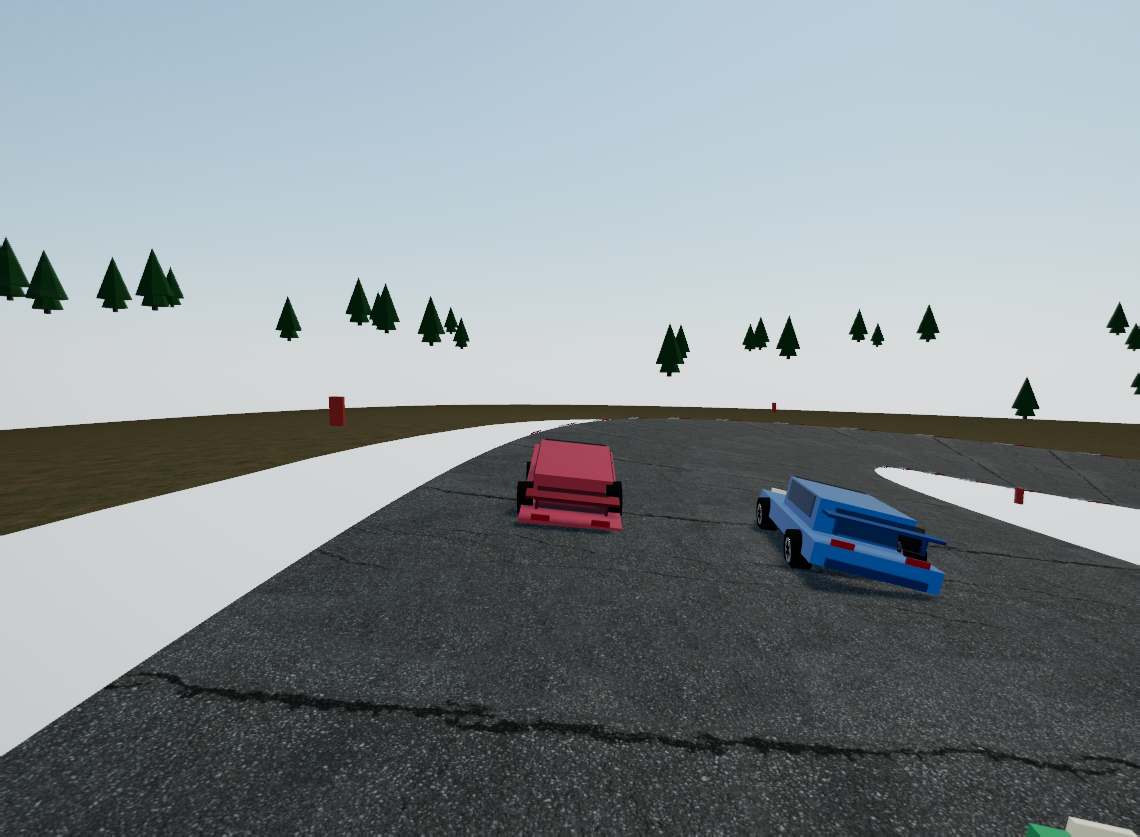
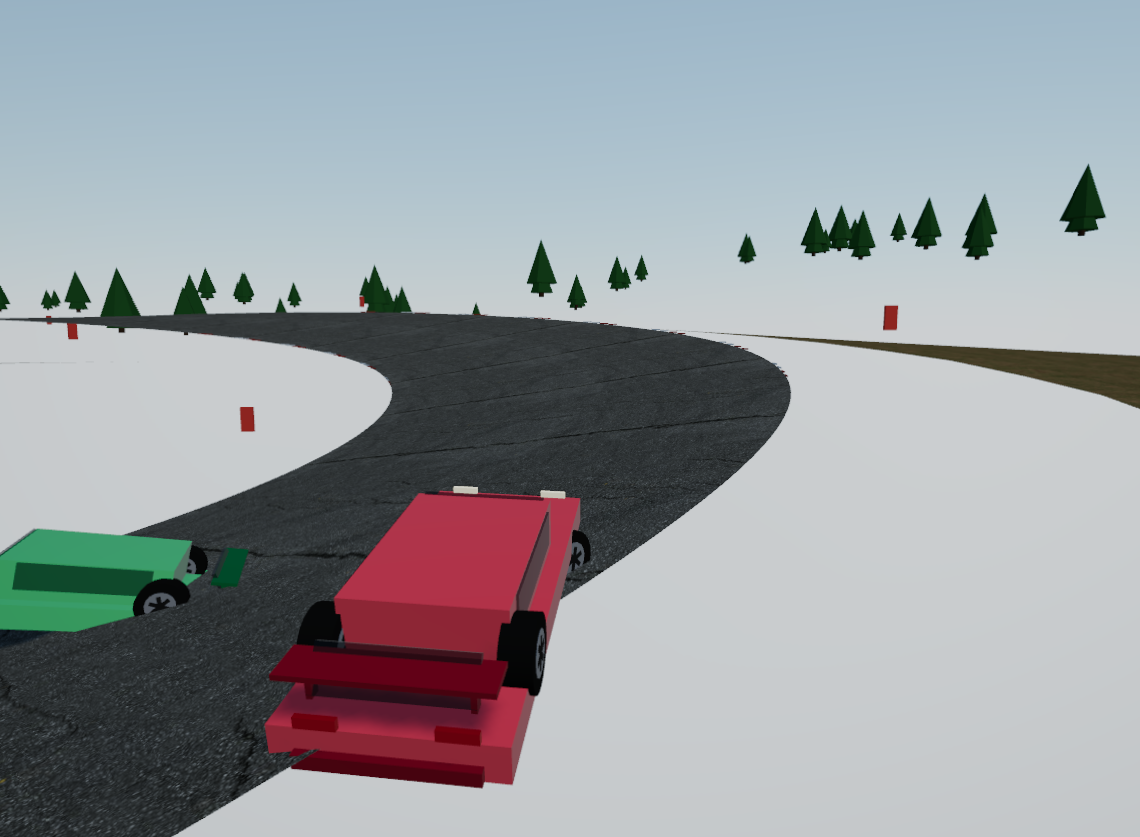
fix(3d): repond a la direction a droite
La touche fleche droite etait muette : KEYMAP contenait KeyRight au lieu
de ArrowRight, qui n'est pas un code KeyboardEvent valide. La touche n'etait
donc jamais enregistree, sans lever d'erreur — le jeu tournait, seule la
direction manquait.

La correspondance clavier est desormais dans src/core/input.js, un module
pur testable sous Node, et un test verifie que chaque code mappe existe
dans CODES_CLAVIER. C'est le genre de bug que l'on ne voit qu'en jouant :
le code est correct, l'image est correcte, une touche ne repond plus.

Verifie dans le navigateur : cap +0,099 rad et lacet +0,542 a droite,
cap -0,100 rad et lacet -0,544 a gauche.

diff --git a/course-voitures-3d/tests/input.test.js b/course-voitures-3d/tests/input.test.js
@@ -1,0 +1,104 @@
+/**
+ * Tests de la correspondance clavier.
+ *
+ * Le bug qui a motivé ce fichier : `KEYMAP` contenait `KeyRight` au lieu de
+ * `ArrowRight`. `KeyRight` n'est pas un code `KeyboardEvent` valide, donc la
+ * flèche droite n'était jamais enregistrée — le jeu tournait, sans erreur,
+ * mais la direction à droite était muette.
+ *
+ * D'où ces tests : ils vérifient les codes, pas seulement le comportement.
+ */
+
+import test from 'node:test';
+import assert from 'node:assert/strict';
+
+import {
+  KEYMAP,
+  CODES_CLAVIER,
+  readInput,
+  toCarInput,
+} from '../src/core/input.js';
+
+test('toutes les touches mappées sont des codes KeyboardEvent valides', () => {
+  for (const code of Object.keys(KEYMAP)) {
+    assert.ok(
+      CODES_CLAVIER.has(code),
+      `« ${code} » n'est pas un code KeyboardEvent valide — ` +
+        'la touche serait muette sans lever d’erreur'
+    );
+  }
+});
+
+test('toutes les commandes attendues sont mappées', () => {
+  const commandes = new Set(Object.values(KEYMAP));
+  for (const attendue of ['throttle', 'brake', 'left', 'right', 'hand']) {
+    assert.ok(commandes.has(attendue), `la commande « ${attendue} » n’est mappée sur aucune touche`);
+  }
+});
+
+test('chaque commande a au moins une flèche ou touche directionnelle', () => {
+  // Les flèches et les touches ZQSD/WASD doivent toutes être présentes.
+  for (const code of [
+    'ArrowUp',
+    'ArrowDown',
+    'ArrowLeft',
+    'ArrowRight',
+    'KeyW',
+    'KeyA',
+    'KeyS',
+    'KeyD',
+  ]) {
+    assert.ok(KEYMAP[code], `la touche ${code} doit être mappée`);
+  }
+});
+
+test('la flèche droite donne une direction à droite', () => {
+  const cmd = readInput(new Set(['ArrowRight']));
+  assert.equal(cmd.right, 1);
+  assert.equal(cmd.left, 0);
+  assert.equal(toCarInput(cmd).steer, 1, 'steer > 0 doit signifier « à droite »');
+});
+
+test('la flèche gauche donne une direction à gauche', () => {
+  const cmd = readInput(new Set(['ArrowLeft']));
+  assert.equal(cmd.left, 1);
+  assert.equal(cmd.right, 0);
+  assert.equal(toCarInput(cmd).steer, -1);
+});
+
+test('les équivalents ZQSD/WASD répondent aussi', () => {
+  const cas = [
+    [['KeyD'], 1],
+    [['KeyA'], -1],
+    [['KeyW'], 0],
+    [['KeyS'], 0],
+  ];
+  for (const [touches, attendu] of cas) {
+    assert.equal(toCarInput(readInput(new Set(touches))).steer, attendu);
+  }
+});
+
+test('aucune direction sans touche enfoncée', () => {
+  const cmd = readInput(new Set());
+  assert.equal(toCarInput(cmd).steer, 0);
+  assert.equal(cmd.throttle, 0);
+  assert.equal(cmd.brake, 0);
+  assert.equal(cmd.hand, false);
+});
+
+test('les deux directions enfoncées s’annulent', () => {
+  const cmd = toCarInput(readInput(new Set(['ArrowLeft', 'ArrowRight'])));
+  assert.equal(cmd.steer, 0);
+});
+
+test('accélérateur, frein et frein à main sont indépendants', () => {
+  const cmd = toCarInput(readInput(new Set(['ArrowUp', 'ArrowDown', 'Space'])));
+  assert.equal(cmd.throttle, 1);
+  assert.equal(cmd.brake, 1);
+  assert.equal(cmd.hand, true);
+});
+
+test('l’ensemble vide et null sont acceptés', () => {
+  assert.equal(toCarInput(readInput(null)).steer, 0);
+  assert.equal(toCarInput(readInput(new Set())).steer, 0);
+});

diff --git a/course-voitures-3d/src/core/input.js b/course-voitures-3d/src/core/input.js
@@ -1,0 +1,114 @@
+/**
+ * Correspondance clavier → commandes de conduite.
+ *
+ * Module **pur** : il ne touche ni au DOM ni à Three.js, ce qui permet de le
+ * tester sous Node. C'est important, car une erreur ici est **invisible** :
+ * le jeu tourne, mais une touche ne répond plus.
+ *
+ * Les codes sont ceux de `KeyboardEvent.code` : ils désignent une **position
+ * physique** sur le clavier, pas un caractère. La flèche droite est donc
+ * `ArrowRight` — et non `KeyRight`, qui n'existe pas.
+ */
+
+/** Touches reconnues, associées à une commande. */
+export const KEYMAP = {
+  ArrowUp: 'throttle',
+  KeyW: 'throttle',
+  ArrowDown: 'brake',
+  KeyS: 'brake',
+  ArrowLeft: 'left',
+  KeyA: 'left',
+  ArrowRight: 'right',
+  KeyD: 'right',
+  Space: 'hand',
+};
+
+/**
+ * Codes valides de `KeyboardEvent.code`.
+ * Sert à valider `KEYMAP` : une faute de frappe dans un code rend la touche
+ * muette sans aucune erreur.
+ */
+export const CODES_CLAVIER = new Set([
+  'ArrowUp',
+  'ArrowDown',
+  'ArrowLeft',
+  'ArrowRight',
+  'Space',
+  'Enter',
+  'Escape',
+  'Backspace',
+  'Tab',
+  'ShiftLeft',
+  'ShiftRight',
+  'ControlLeft',
+  'ControlRight',
+  'AltLeft',
+  'AltRight',
+  'KeyA',
+  'KeyB',
+  'KeyC',
+  'KeyD',
+  'KeyE',
+  'KeyF',
+  'KeyG',
+  'KeyH',
+  'KeyI',
+  'KeyJ',
+  'KeyK',
+  'KeyL',
+  'KeyM',
+  'KeyN',
+  'KeyO',
+  'KeyP',
+  'KeyQ',
+  'KeyR',
+  'KeyS',
+  'KeyT',
+  'KeyU',
+  'KeyV',
+  'KeyW',
+  'KeyX',
+  'KeyY',
+  'KeyZ',
+  'Digit0',
+  'Digit1',
+  'Digit2',
+  'Digit3',
+  'Digit4',
+  'Digit5',
+  'Digit6',
+  'Digit7',
+  'Digit8',
+  'Digit9',
+]);
+
+/**
+ * Lit les commandes à partir de l'ensemble des touches enfoncées.
+ *
+ * @param {Iterable<string>} touches  codes `KeyboardEvent.code` enfoncés
+ * @returns {{throttle:number, brake:number, steer:number, hand:boolean}}
+ *   `steer > 0` = vers la droite (convention du projet).
+ */
+export function readInput(touches) {
+  const a = (code) => (touches ? touches.has(code) : false);
+  return {
+    throttle: a('ArrowUp') || a('KeyW') ? 1 : 0,
+    brake: a('ArrowDown') || a('KeyS') ? 1 : 0,
+    left: a('ArrowLeft') || a('KeyA') ? 1 : 0,
+    right: a('ArrowRight') || a('KeyD') ? 1 : 0,
+    hand: a('Space'),
+  };
+}
+
+/**
+ * Convertit les commandes en entrée physique du véhicule.
+ * Séparé de `readInput` pour rester testable sans le reste du jeu.
+ */
+export function toCarInput(cmd) {
+  return {
+    throttle: cmd.throttle,
+    brake: cmd.brake,
+    steer: cmd.right - cmd.left,
+    hand: cmd.hand,
+  };
+}

diff --git a/course-voitures-3d/src/main.js b/course-voitures-3d/src/main.js
@@ -13,6 +13,7 @@ import { TRACKS, TRACK_IDS } from './core/tracks.js';
 import { buildTrack } from './core/track.js';
 import { bindTrack } from './core/physics.js';
 import { Race, STEP, TOTAL_LAPS } from './core/race.js';
+import { KEYMAP, readInput as readInputFromKeys, toCarInput } from './core/input.js';
 import { createScene, resizeScene } from './render/scene.js';
 import { buildTrackScene, disposeTrackScene } from './render/trackMesh.js';
 import { buildCar, updateCarMesh, PLAYER_COLORS } from './render/carMesh.js';
@@ -51,33 +52,16 @@ const etat = {
 
 const keys = new Set();
 
-const KEYMAP = {
-  ArrowUp: 'throttle',
-  KeyW: 'throttle',
-  ArrowDown: 'brake',
-  KeyS: 'brake',
-  ArrowLeft: 'left',
-  KeyA: 'left',
-  KeyRight: 'right',
-  KeyD: 'right',
-  Space: 'hand',
-};
-
-/** Lit les commandes du joueur. */
+/**
+ * Lit les commandes du joueur.
+ *
+ * La correspondance clavier est dans `src/core/input.js`, qui est testée
+ * sous Node : une erreur de code y rend une touche muette sans lever
+ * d'erreur, ce qui est exactement le genre de bug que l'on ne voit qu'en
+ * jouant.
+ */
 function readInput() {
-  const throttle = keys.has('ArrowUp') || keys.has('KeyW') ? 1 : 0;
-  const brake = keys.has('ArrowDown') || keys.has('KeyS') ? 1 : 0;
-  const left = keys.has('ArrowLeft') || keys.has('KeyA') ? 1 : 0;
-  const right = keys.has('ArrowRight') || keys.has('KeyD') ? 1 : 0;
-  const hand = keys.has('Space');
-
-  // `steer > 0` = vers la droite (convention du projet).
-  return {
-    throttle,
-    brake,
-    steer: right - left,
-    hand,
-  };
+  return toCarInput(readInputFromKeys(keys));
 }
 
 window.addEventListener('keydown', (e) => {
@@ -429,5 +413,12 @@ window.__game = {
       buildCars();
       etat.camera.snap();
     }
+  },
+  /** État des touches et des commandes (diagnostic). */
+  debugEntrees() {
+    return {
+      touches: [...keys],
+      commandes: readInput(),
+    };
   },
 };

diff --git a/course-voitures-3d/CHANGELOG.md b/course-voitures-3d/CHANGELOG.md
@@ -7,6 +7,14 @@ projet suit [Semantic Versioning](https://semver.org/lang/fr/).
 
 ## [Non publié]
 
+### Corrigé
+
+- **La direction à droite était muette.** `KEYMAP` contenait `KeyRight` au
+  lieu de `ArrowRight` — un code `KeyboardEvent` qui n'existe pas. La touche
+  n'était donc jamais enregistrée, sans aucune erreur. La correspondance
+  clavier est désormais dans `src/core/input.js` (module pur, testé sous
+  Node) et un test vérifie que chaque code mappé est un code valide.
+
 ## [0.2.0]
 
 Le jeu est jouable : rendu 3D, interface et course complète.
